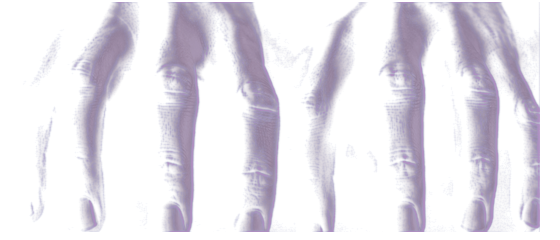
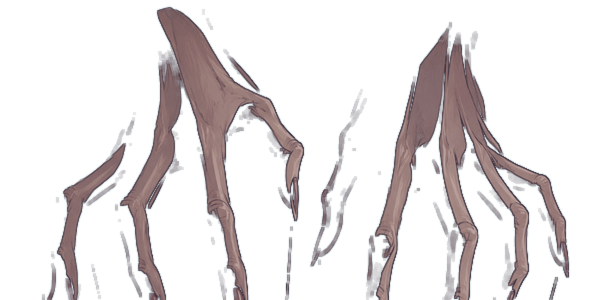
Replace Zeynep hand asset with stylized reference

diff --git a/apps/web/src/scenes/GameScene.ts b/apps/web/src/scenes/GameScene.ts
@@ -2178,7 +2178,7 @@ export class GameScene extends Phaser.Scene {
     }
 
     const handsImage = this.add.image(0, -70, "zeynep-puppet-hands")
-      .setDisplaySize(390, 168)
+      .setDisplaySize(390, 195)
       .setAlpha(0.92)
       .setBlendMode(Phaser.BlendModes.NORMAL);
 
